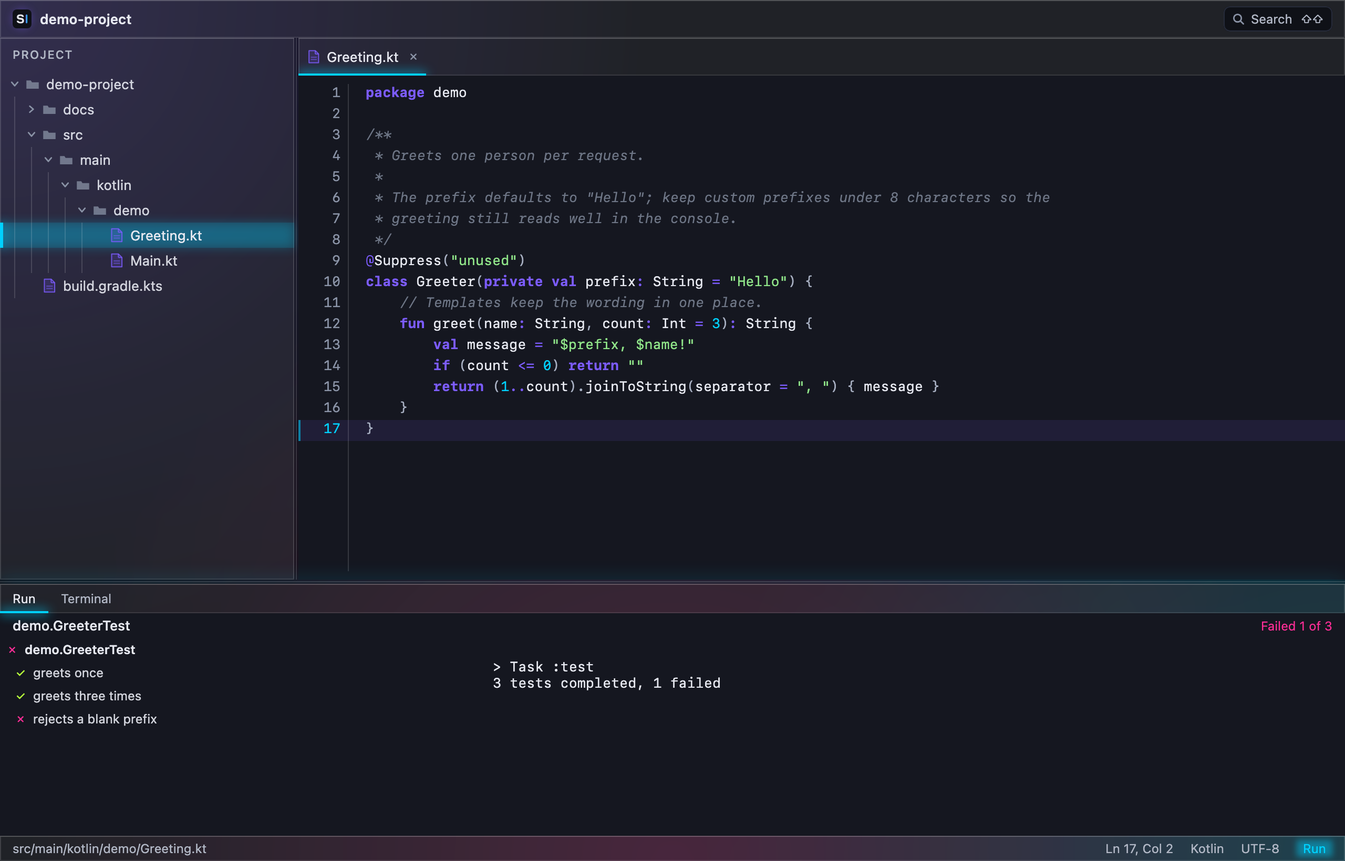
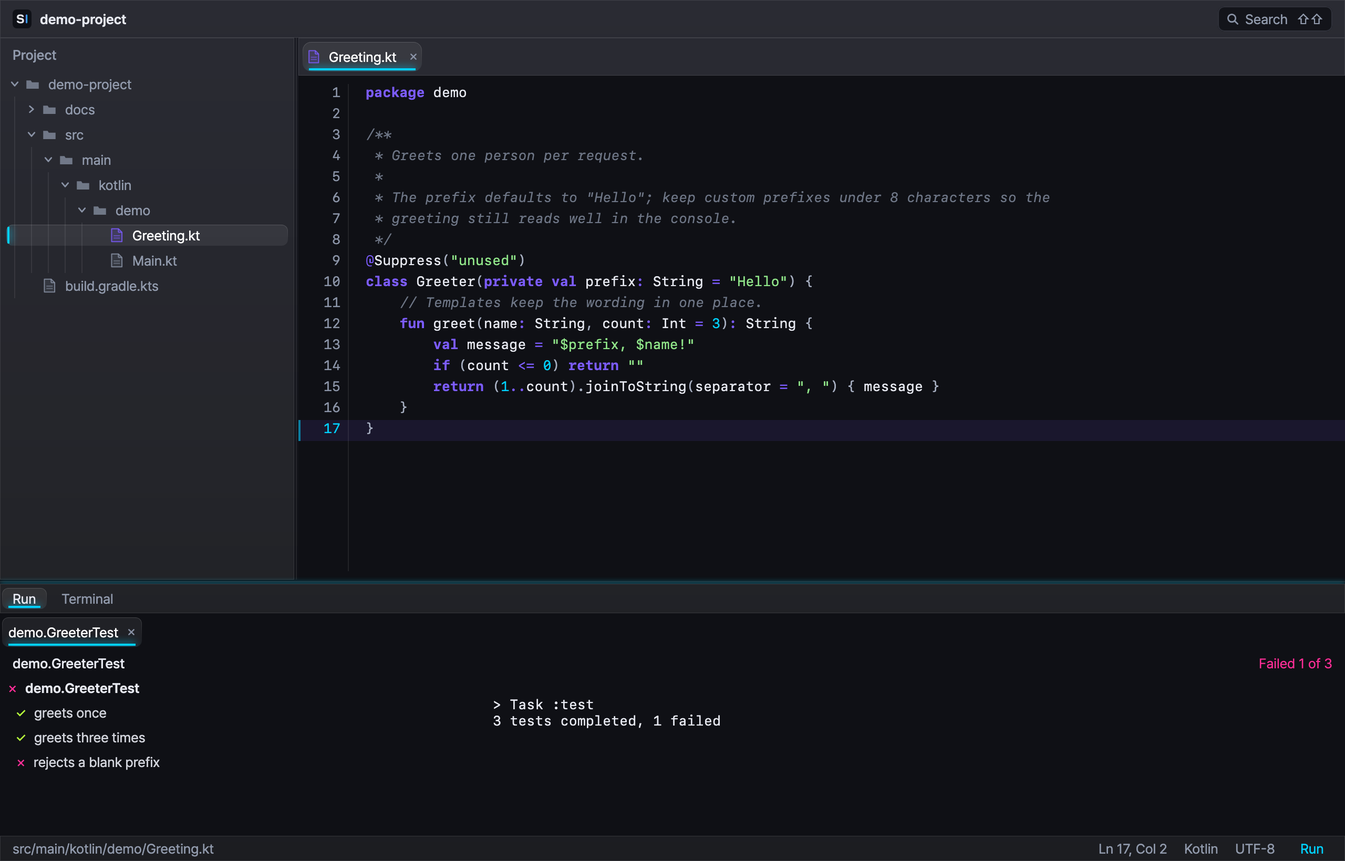
docs: #5 README 와 예시 그림 갱신
- README.md·README.en.md: Search Everywhere 탭과 클래스·심볼·액션 검색, 에디터 편집·탐색 액션, main 실행과 실행 구성, 리퀴드 글래스 UI 반영
- 키보드 단축키 표를 파일·검색·편집·찾기·탐색·Run·터미널로 묶어 Keymap.kt 와 맞춤
- 동작 방식에 선언 인덱스와 Search Everywhere 기여자 구성 추가
- docs/images 예시 그림 다섯 장을 UiSnapshotTest 산출물로 갱신

diff --git a/README.md b/README.md
@@ -13,7 +13,7 @@
 <p align="center"><img src="docs/images/editor.png" alt="프로젝트 트리와 Kotlin 파일을 연 strIDE 창" width="720"></p>
 
 <p align="center">
-  프로젝트 트리 &nbsp;·&nbsp; 탭 에디터 &nbsp;·&nbsp; Kotlin·JSON 문법 하이라이트 &nbsp;·&nbsp; 찾기와 바꾸기 &nbsp;·&nbsp; 네온·글래스 UI<br>
+  프로젝트 트리 &nbsp;·&nbsp; 탭 에디터 &nbsp;·&nbsp; Kotlin·JSON 문법 하이라이트 &nbsp;·&nbsp; 찾기와 바꾸기 &nbsp;·&nbsp; 리퀴드 글래스 UI<br>
   Kotlin 과 Compose Desktop 으로 만든 Apple Silicon 전용 앱입니다.
 </p>
 
@@ -40,10 +40,12 @@ brew install --cask lcalmsky/stride/stride
 <td width="44%" valign="top"><img src="docs/images/editor.png" alt="프로젝트 트리와 Kotlin 에디터" width="480"></td>
 <td valign="top">
 
-- **프로젝트 트리** 폴더는 한 번 클릭에 펼치고 파일은 한 번 클릭에 엽니다. `.git`, `build`, `.gradle`, `node_modules`, `.kotlin`, `.idea` 는 숨깁니다. 경계를 끌어 너비를 200–480 dp 사이에서 바꿉니다
-- **탭 에디터** 연 파일이 탭으로 열리고, 같은 파일을 다시 열면 그 탭을 고릅니다. 탭은 `⌘W` 로 닫고 `⌘⇧]`·`⌃→` 와 `⌘⇧[`·`⌃←` 로 오갑니다
+- **프로젝트 트리** 폴더는 한 번 클릭에 펼치고 파일은 한 번 클릭에 엽니다. `.git`, `build`, `.gradle`, `node_modules`, `.kotlin`, `.idea` 는 숨깁니다. 경계를 끌어 너비를 200–480 dp 사이에서 바꾸고, `⌘1` 로 트리를 여닫고 `⌥F1` 로 현재 파일을 트리에서 드러냅니다
+- **탭 에디터** 연 파일이 탭으로 열리고, 같은 파일을 다시 열면 그 탭을 고릅니다. 탭은 `⌘W` 로 닫고 `⌘⇧]`·`⌃→` 와 `⌘⇧[`·`⌃←` 로 오갑니다. 닫은 탭과 나머지 탭은 Actions 탭의 `Reopen Closed Tab`·`Close Other Tabs` 로 다룹니다
 - **문법 하이라이트** Kotlin 플러그인과 JSON 플러그인이 각각 렉서와 하이라이터를 제공합니다. 2 MB 를 넘는 파일은 하이라이트 없이 읽기 전용으로 엽니다
-- **편집** 줄 복제·삭제·이동, 줄·블록 주석 토글, 들여쓰기, 실행 취소·다시 실행을 키보드로 합니다. `⌘L` 로 `줄` 이나 `줄:열` 로 이동합니다
+- **편집** 줄 복제·삭제·이동, 줄·블록 주석 토글, 들여쓰기, 실행 취소·다시 실행을 키보드로 합니다. `⌘L` 로 `줄` 이나 `줄:열` 로 이동합니다. 선택 없이 `⌘C`·`⌘X` 를 누르면 줄 전체를 복사·잘라냅니다
+- **편집 도우미** `⌥↑`·`⌥↓` 는 커서에서 단어·문자열·괄호·줄 순으로 선택을 넓히고 좁힙니다. `⌘⇧U` 대소문자, `⌃⇧J` 줄 합치기, `⇧↩`·`⌘⌥↩` 새 줄, `⌃M` 짝 괄호, `⌘⌥[`·`⌘⌥]` 코드 블록, `⌃⇧↑`·`⌃⇧↓` 메서드 이동을 키보드로 합니다. `⌥/` 는 열린 편집기의 단어로, `⌃Space`·`⌃⌥Space` 는 선언 인덱스와 키워드로 자동 완성하고, `⇧F6` 은 파일 안에서 이름을 바꿉니다
+- **탐색** `⌘B` 나 `⌘`-클릭으로 선언으로 가고, `⌘[`·`⌘]` 또는 `⌘⌥←`·`⌘⌥→` 로 뒤로·앞으로 갑니다. `⌘F12` 파일 구조, `⌘⇧T` 테스트로 이동, `⌥F7` 사용처 찾기, `F3`·`⌘F3` 북마크를 씁니다
 - **상태 바** 상대 경로, `Ln`·`Col`, 파일 종류, `UTF-8`, 읽기 전용 표시를 보여 줍니다
 
 </td>
@@ -57,9 +59,11 @@ brew install --cask lcalmsky/stride/stride
 <td width="44%" valign="top"><img src="docs/images/search.png" alt="Search Everywhere 결과" width="480"></td>
 <td valign="top">
 
-- **Search Everywhere** `Shift` 를 두 번 누르면 열립니다. 파일 이름과 상대 경로를 퍼지 매칭으로 찾아 점수 순으로 보여 주고, `↑`·`↓` 로 옮기고 `Enter` 로 엽니다
-- **파일로 이동** `⌘⇧O` 는 같은 결과 창을 엽니다
-- **프로젝트 텍스트 검색** `⌘⇧F` 는 프로젝트의 파일에서 글자를 찾습니다. 2 MB 가 넘는 파일과 바이너리 파일은 건너뛰고 최대 200건을 보여 줍니다. 결과는 `경로:줄` 과 줄 내용으로 나오고 일치한 글자는 강조됩니다. `Enter` 로 파일을 열고 그 위치를 선택합니다
+- **Search Everywhere** `Shift` 를 두 번 누르면 All 탭으로 열립니다. 파일·클래스·심볼·액션 결과를 묶어 보여 주고(`Files`·`Classes` 같은 그룹, 기여자별 4개·전체 50개까지), `Tab`·`⇧Tab` 으로 All·Classes·Files·Symbols·Actions 탭을 오갑니다. `↑`·`↓` 로 옮기고 `Enter` 로 엽니다
+- **클래스·심볼** `⌘O` 는 클래스, `⌘⌥O` 는 심볼 검색을 엽니다. 백그라운드 선언 인덱스가 Kotlin·Java 의 클래스·함수·프로퍼티를 훑어 클래스는 `경로:줄`, 심볼은 `컨테이너 — 경로:줄` 을 보여 주고 `Enter` 로 그 줄을 엽니다
+- **파일로 이동** `⌘⇧O` 는 파일 이름과 상대 경로를 퍼지 매칭해 점수 순으로 보여 줍니다
+- **액션** `⌘⇧A` 는 모든 액션을 이름과 단축키로 보여 주고 `Enter` 로 실행합니다
+- **프로젝트 텍스트 검색** `⌘⇧F` 는 프로젝트의 파일에서 글자를 찾습니다. 2 MB 가 넘는 파일과 바이너리 파일은 건너뛰고 최대 200건을 보여 줍니다. `W` 는 단어 단위 일치를 켭니다. 결과는 `경로:줄` 과 줄 내용으로 나오고 일치한 글자는 강조됩니다. `Enter` 로 파일을 열고 그 위치를 선택합니다
 - **최근 파일** `⌘E` 는 최근에 연 파일을 최신 순으로 최대 50개 보여 줍니다. 닫은 파일도 목록에 남습니다
 
 </td>
@@ -89,9 +93,10 @@ brew install --cask lcalmsky/stride/stride
 <td width="44%" valign="top"><img src="docs/images/run.png" alt="테스트 트리와 콘솔이 있는 Run 창" width="480"></td>
 <td valign="top">
 
-- **테스트 실행** `src/test` 아래 `.kt` 파일의 클래스 줄과 `@Test` 함수마다 거터에 `▶` 가 붙습니다. 눌러서 그 테스트를 실행합니다. `⌃⇧R` 은 커서 위치의 테스트를, `⌃R` 은 마지막 실행이나 커서 위치의 테스트를 실행합니다
-- **테스트 트리와 콘솔** Run 창은 머리글 상태 아래를 테스트 트리와 콘솔로 나눕니다. 통과·실패·건너뜀 수를 세고, 메서드를 고르면 메시지와 스택, 그 테스트의 출력을 보여 줍니다
-- **중지와 다시 실행** `⌘F2` 로 실행을 중지하고 `⌘R` 로 Run 창에서 다시 실행합니다. `⌘4` 로 Run 창을 엽니다
+- **테스트 실행** `src/test` 아래 `.kt` 파일의 클래스 줄과 `@Test` 함수마다 거터에 `▶` 가 붙습니다. 눌러서 그 테스트를 실행합니다. `⌃⇧R` 은 커서 위치의 테스트를, 없으면 파일의 main 이나 스크립트를 실행합니다
+- **main 실행** Kotlin·Java 의 `main` 함수 줄에도 거터 `▶` 가 붙습니다. `⌃R` 은 마지막 실행이 있으면 다시 실행하고, 없으면 `⌃⇧R` 과 같은 대상을 실행합니다. `.py`·`.sh`·`.js`·`.rb`·`.kts` 스크립트와 Gradle 밖 단일 Java 파일은 직접 실행하고, Gradle 소스셋의 Kotlin·Java 는 `strideRunMain` 작업으로 실행합니다
+- **컨텍스트 액션과 실행 구성** `⌥↩` 는 커서 위치에서 실행할 main·테스트와 다시 실행·중지를 팝업으로 보여 줍니다. `⌃⌥R` 은 현재 파일의 실행 항목과 최근 실행 10개를 보여 주고 `Enter` 로 실행합니다. `⌘F9` 는 `classes`·`testClasses` 를 빌드합니다
+- **Run 창** 실행 세션이 둘 이상이거나 끝난 세션이 있으면 창 위에 탭이 생기고 `×` 로 닫습니다. 테스트 실행은 트리와 콘솔로 나눠 통과·실패·건너뜀 수를 세고, 메서드를 고르면 메시지와 스택, 그 테스트의 출력을 보여 줍니다. 애플리케이션 실행은 콘솔만 보여 주며 콘솔 아래 입력 줄로 표준 입력을 보냅니다. `⌘F2` 로 중지하고 `⌘R` 로 다시 실행하며 `⌘4` 로 창을 엽니다
 - **항상 실행** Gradle init script 가 `Test` 작업의 최신 검사와 빌드 캐시를 끕니다. 같은 테스트를 다시 돌려도 건너뛰지 않고 이벤트를 보고합니다
 
 </td>
@@ -113,18 +118,18 @@ brew install --cask lcalmsky/stride/stride
 </tr>
 </table>
 
-### 네온·글래스 UI
+### 리퀴드 글래스 UI
 
 <table width="100%">
 <tr>
-<td width="44%" valign="top"><img src="docs/images/editor.png" alt="메시 배경과 글래스 패널, 네온 선택 표시" width="480"></td>
+<td width="44%" valign="top"><img src="docs/images/editor.png" alt="프로젝트 트리와 활성 탭의 시안 선택 표시" width="480"></td>
 <td valign="top">
 
-- **메시 배경** 어두운 바탕 위에 세 개의 방사형 오브(보라·청록·분홍)를 그려 창 뒤에 깔아 둡니다
-- **글래스 패널** 프로젝트 트리, 탭 줄, 찾기 바는 메시를 잘라 흐린 반투명 패널로 그립니다. 결과 창과 줄로 이동 창은 뒤 화면을 실제로 흐리는 유리로 그립니다
-- **네온 선택 신호** 선택한 행·탭·결과는 옅은 청록 배경과 왼쪽(탭은 아래)의 `accent2` 막대, 번지는 글로우로 표시합니다. 포커스를 받은 패널은 위쪽에 얇은 네온 선을 그립니다
-- **상태 전환** 선택이 바뀔 때만 150 ms 동안 글로우가 페이드합니다. 그 밖의 상시 애니메이션은 없습니다
-- **비용** 패널 블러는 크기별로 한 번 계산해 캐시하고, 결과 창의 배경 블러는 1/4 해상도 사본에 겁니다. 에디터·터미널·콘솔은 불투명 틴트라 메시가 비치지 않습니다
+- **배경** 중립 그라파이트 바탕에 위에서 아래로 은은히 어두워지는 휘도 폴오프를 깔아 창 뒤에 둡니다. 색은 강조 요소에만 씁니다
+- **리퀴드 글래스** 프로젝트 트리·탭 줄·찾기 바·상태 바·도구 창은 흐린 프로스트 슬래브로, 팝업은 뒤 화면을 흐리고 가장자리를 굴절시키는 유리로 그립니다. 유리에는 가장자리 렌즈, 스페큘러 림, 중립 그림자가 있고, 셰이더를 쓸 수 없으면 블러와 헤어라인으로 대체합니다
+- **선택 신호** 선택한 행·탭·결과는 캡슐 리프트와 위쪽 스페큘러 림, 왼쪽(탭은 아래)의 2 dp 시안 막대, 번지는 글로우, 흰 텍스트로 표시합니다. 포커스를 받은 패널은 테두리에 얇은 선을 그립니다
+- **모션과 비용** 선택이 바뀔 때만 150 ms 동안 페이드하고 상시 애니메이션은 없습니다. 패널 블러는 크기별로 한 번 계산해 캐시하고, 팝업 렌즈는 1/4 해상도 사본에서 계산합니다. 에디터·터미널·콘솔은 불투명 틴트라 배경이 비치지 않습니다
+- **UI 글꼴** 번들된 UI 글꼴을 쓰고, Actions 탭의 `Switch UI Font` 로 시스템 글꼴과 전환합니다. 선택은 저장되어 다음 실행에도 유지됩니다
 
 </td>
 </tr>
@@ -136,21 +141,25 @@ brew install --cask lcalmsky/stride/stride
 
 ### 키보드
 
-아래는 기본 키입니다. 단축키는 IntelliJ IDEA 의 macOS 기본 키맵과 호환됩니다. 전체 목록과 문맥별 우선순위의 정본은 `app/src/main/kotlin/stride/app/keys/Keymap.kt` 의 `bind(` 호출입니다.
+아래는 기본 키입니다. 단축키는 IntelliJ IDEA 의 macOS 기본 키맵과 호환됩니다. macOS 가 아닌 플랫폼에서는 같은 조합을 `Ctrl`·`Shift` 라벨로 보여 줍니다. 전체 목록과 문맥별 우선순위의 정본은 `app/src/main/kotlin/stride/app/keys/Keymap.kt` 의 `bind(` 호출입니다.
 
 | 키 | 동작 |
 |---|---|
-| `⌘O` | 폴더 열기 |
+| **파일과 탭** | |
 | `⌘S` | 저장 |
 | `⌘W` | 탭 닫기 |
 | `⌘⇧]` `⌃→` / `⌘⇧[` `⌃←` | 다음 탭 / 이전 탭 |
-| `⇧⇧` | Search Everywhere |
-| `⌘⇧O` | 파일로 이동 |
+| `⌘1` / `⌘⇧F12` | 프로젝트 트리 여닫기 / 모든 도구 창 숨기기·복원 |
+| Actions 탭 | Reopen Closed Tab · Close Other Tabs |
+| **검색과 이동** | |
+| `⇧⇧` | Search Everywhere (All 탭) |
+| `⌘O` | 클래스로 이동. 프로젝트가 없으면 폴더 열기 |
+| `⌘⇧O` / `⌘⌥O` | 파일 / 심볼로 이동 |
+| `⌘⇧A` | 액션으로 이동 |
 | `⌘⇧F` | 프로젝트 텍스트 검색 |
-| `⌘E` | 최근 파일 |
-| `⌘F` | 찾기 바 열기 |
-| `⌘R` | 바꾸기 줄 펼치기 |
-| `⌘G` / `⌘⇧G` | 다음 일치 / 이전 일치 |
+| `⌘E` / `⌃Tab` `⌃⇧Tab` | 최근 파일 / 최근 파일 전환기 |
+| `⌥F1` / `⌘⇧C` / `⌘⌥⇧C` | 트리에서 현재 파일 드러내기 / 경로 복사 / 참조 복사 |
+| **에디터 편집** | |
 | `⌘D` | 줄 또는 선택 복제 |
 | `⌘⌫` | 줄 삭제 |
 | `⌥⇧↑` / `⌥⇧↓` | 줄 위로 이동 / 아래로 이동 |
@@ -158,10 +167,41 @@ brew install --cask lcalmsky/stride/stride
 | `Tab` / `⇧Tab` | 들여쓰기 / 내어쓰기 |
 | `⌘L` | 줄로 이동 |
 | `⌘Z` / `⌘⇧Z` | 실행 취소 / 다시 실행 |
-| `⌃R` | 마지막 실행, 없으면 커서 위치의 테스트 실행 |
-| `⌃⇧R` | 커서 위치의 테스트 실행 |
+| `⌥↑` / `⌥↓` | 선택 넓히기 / 좁히기 |
+| `⌘⇧U` | 대소문자 바꾸기 |
+| `⌃⇧J` | 줄 합치기 |
+| `⇧↩` / `⌘⌥↩` | 아래 / 위에 새 줄 |
+| `⌃M` | 짝 괄호로 이동 |
+| `⌘⌥[` / `⌘⌥]` | 코드 블록 시작 / 끝으로 이동 |
+| `⌃⇧↑` / `⌃⇧↓` | 위 / 아래 메서드로 이동 |
+| `⌥/` | 단어 자동 완성 |
+| `⌃Space` · `⌃⌥Space` | 자동 완성 팝업 |
+| `⇧F6` | 파일 안에서 이름 바꾸기 |
+| `⌘C` / `⌘X` | 선택 없이 줄 복사 / 잘라내기 |
+| **찾기** | |
+| `⌘F` | 찾기 바 열기 |
+| `⌘R` | 바꾸기 줄 펼치기 |
+| `⌘G` / `⌘⇧G` | 다음 일치 / 이전 일치 |
+| **탐색** | |
+| `⌘B` · `⌘`-클릭 | 선언으로 이동 |
+| `⌘[` `⌘⌥←` / `⌘]` `⌘⌥→` | 뒤로 / 앞으로 |
+| `⌘F12` | 파일 구조 |
+| `⌘⇧T` | 테스트로 이동 |
+| `⌥F7` | 사용처 찾기 |
+| `F3` / `⌘F3` | 북마크 토글 / 북마크 목록 |
+| **Run** | |
+| `⌥↩` | 컨텍스트 액션 |
+| `⌃⇧R` | 커서 위치의 테스트, 없으면 파일의 main 실행 |
+| `⌃R` | 마지막 실행 다시 실행, 없으면 커서 위치의 테스트나 파일의 main 실행 |
+| `⌃⌥R` | 실행 구성 선택 |
+| `⌘F9` | 빌드 |
 | `⌘F2` | 실행 중지 |
-| `⌘4` · `⌥F12` · `⇧Esc` | Run 창 · Terminal 창 · 도구 창 숨기기 |
+| `⌘4` · `⌘R` (Run 창) | Run 창 열기 · Run 창에서 다시 실행 |
+| **터미널** | |
+| `⌥F12` | Terminal 창 열기 |
+| `⇧Esc` | 도구 창 숨기기 |
+| **기타** | |
+| Actions 탭 | Switch UI Font |
 
 <br>
 
@@ -200,9 +240,9 @@ JDK 21 이 필요합니다. Gradle toolchain 이 21 을 요구합니다.
 
 ## 동작 방식
 
-앱은 여섯 모듈로 나뉩니다. `core` 는 서비스·확장점·`Disposer` 를 제공하고, `lang` 은 언어와 파일 종류·하이라이터·주석 처리 API 를 정의합니다. `search` 는 파일 이름 인덱스와 Search Everywhere 의 모델을, `app` 은 Compose Desktop UI 와 에디터·트리·Run·터미널을 담습니다. `plugins/lang-kotlin` 과 `plugins/lang-json` 이 각각 Kotlin 과 JSON 의 렉서·하이라이터·파일 종류를 등록합니다.
+앱은 여섯 모듈로 나뉩니다. `core` 는 서비스·확장점·`Disposer` 를 제공하고, `lang` 은 언어와 파일 종류·하이라이터·주석 처리 API 를 정의합니다. `search` 는 파일 이름 인덱스, Kotlin·Java 선언 인덱스, Search Everywhere 의 모델을, `app` 은 Compose Desktop UI 와 에디터·탐색·북마크·Run·터미널을 담습니다. `plugins/lang-kotlin` 과 `plugins/lang-json` 이 각각 Kotlin 과 JSON 의 렉서·하이라이터·파일 종류를 등록합니다.
 
-모든 모듈은 `META-INF/stride-plugin.xml` 디스크립터로 확장점을 선언하고 확장을 등록합니다. 앱 디스크립터가 파일 종류, 문법 하이라이터, 주석 처리, 에디터, 트리 구조, Search Everywhere 기여자 확장점을 열고, 언어 플러그인과 앱 자신이 그 확장점에 등록합니다. 자세한 계약은 [core](docs/api-core.md) · [lang](docs/api-lang.md) · [search](docs/api-search.md) · [app](docs/api-app.md) 에 있습니다.
+모든 모듈은 `META-INF/stride-plugin.xml` 디스크립터로 확장점을 선언하고 확장을 등록합니다. 앱 디스크립터가 파일 종류, 문법 하이라이터, 주석 처리, 에디터, 트리 구조, Search Everywhere 기여자 확장점을 열고, 언어 플러그인과 앱 자신이 그 확장점에 등록합니다. 클래스·심볼 검색은 선언 인덱스를 읽는 기여자로 등록되고, 액션 검색은 앱이 직접 구성합니다. 자세한 계약은 [core](docs/api-core.md) · [lang](docs/api-lang.md) · [search](docs/api-search.md) · [app](docs/api-app.md) 에 있습니다.
 
 <br>
 
@@ -214,7 +254,7 @@ JDK 21 이 필요합니다. Gradle toolchain 이 21 을 요구합니다.
 ./gradlew :app:run                # 창을 띄우므로 직접 실행합니다
 ```
 
-- 테스트는 340여 건이고 약 70초 걸립니다. `UiSnapshotTest` 가 `app/build/ui-snapshots/` 에 화면 PNG 를 씁니다
+- 테스트는 580여 건이고 약 2분 걸립니다. `UiSnapshotTest` 가 `app/build/ui-snapshots/` 에 화면 PNG 를 씁니다
 - 릴리즈는 `scripts/release.sh X.Y.Z -m "<바뀐 기능 요약>"` 하나로 합니다. `scripts/release-selftest.sh` 가 이 스크립트를 검사합니다
 - 저장소 규칙은 [CLAUDE.md](CLAUDE.md) 에 있습니다
 

diff --git a/README.en.md b/README.en.md
@@ -13,7 +13,7 @@
 <p align="center"><img src="docs/images/editor.png" alt="The strIDE window with a project tree and a Kotlin file open" width="720"></p>
 
 <p align="center">
-  Project tree &nbsp;·&nbsp; tabbed editor &nbsp;·&nbsp; Kotlin and JSON syntax highlighting &nbsp;·&nbsp; find and replace &nbsp;·&nbsp; neon and glass UI<br>
+  Project tree &nbsp;·&nbsp; tabbed editor &nbsp;·&nbsp; Kotlin and JSON syntax highlighting &nbsp;·&nbsp; find and replace &nbsp;·&nbsp; liquid glass UI<br>
   Built with Kotlin and Compose Desktop for Apple Silicon.
 </p>
 
@@ -40,10 +40,12 @@ The app installs to `/Applications/strIDE.app`. It is Apple Silicon (arm64) only
 <td width="44%" valign="top"><img src="docs/images/editor.png" alt="Project tree and Kotlin editor" width="480"></td>
 <td valign="top">
 
-- **Project tree** a directory expands on a single click and a file opens on a single click. `.git`, `build`, `.gradle`, `node_modules`, `.kotlin`, and `.idea` are hidden. Drag the splitter to set the width between 200 and 480 dp
-- **Tabbed editor** open files become tabs, and opening the same file again selects its tab. Close with `⌘W` and switch with `⌘⇧]`·`⌃→` and `⌘⇧[`·`⌃←`
+- **Project tree** a directory expands on a single click and a file opens on a single click. `.git`, `build`, `.gradle`, `node_modules`, `.kotlin`, and `.idea` are hidden. Drag the splitter to set the width between 200 and 480 dp, `⌘1` toggles the tree, and `⌥F1` reveals the current file in it
+- **Tabbed editor** open files become tabs, and opening the same file again selects its tab. Close with `⌘W` and switch with `⌘⇧]`·`⌃→` and `⌘⇧[`·`⌃←`. `Reopen Closed Tab` and `Close Other Tabs` in the Actions tab bring back a closed tab or close the rest
 - **Syntax highlighting** the Kotlin and JSON plugins each provide a lexer and a highlighter. Files larger than 2 MB open read-only without highlighting
-- **Editing** duplicate, delete, and move lines, toggle line and block comments, indent, and undo or redo from the keyboard. `⌘L` jumps to a `line` or `line:column`
+- **Editing** duplicate, delete, and move lines, toggle line and block comments, indent, and undo or redo from the keyboard. `⌘L` jumps to a `line` or `line:column`. With no selection, `⌘C`·`⌘X` copy or cut the whole line
+- **Editing helpers** `⌥↑`·`⌥↓` grow and shrink the selection from the caret through word, string contents, brackets, and lines. `⌘⇧U` changes case, `⌃⇧J` joins lines, `⇧↩`·`⌘⌥↩` start a new line, `⌃M` jumps to the matching brace, `⌘⌥[`·`⌘⌥]` move to the code block edges, and `⌃⇧↑`·`⌃⇧↓` move between methods. `⌥/` completes from words in open editors, `⌃Space`·`⌃⌥Space` complete from the declaration index and keywords, and `⇧F6` renames within the file
+- **Navigation** `⌘B` or `⌘`-click goes to a declaration, and `⌘[`·`⌘]` or `⌘⌥←`·`⌘⌥→` move back and forward. `⌘F12` shows the file structure, `⌘⇧T` goes to the test, `⌥F7` finds usages, and `F3`·`⌘F3` handle bookmarks
 - **Status bar** shows the relative path, `Ln`·`Col`, the file type, `UTF-8`, and a read-only badge
 
 </td>
@@ -57,9 +59,11 @@ The app installs to `/Applications/strIDE.app`. It is Apple Silicon (arm64) only
 <td width="44%" valign="top"><img src="docs/images/search.png" alt="Search Everywhere results" width="480"></td>
 <td valign="top">
 
-- **Search Everywhere** press `Shift` twice to open it. It matches file names and relative paths fuzzily and lists them by score; move with `↑`·`↓` and open with `Enter`
-- **Go to file** `⌘⇧O` opens the same result window
-- **Find in path** `⌘⇧F` searches the text of every project file. It skips files over 2 MB and binary files and shows up to 200 results. Each row reads `path:line` with the line body, and the matched characters are highlighted. `Enter` opens the file and selects the match
+- **Search Everywhere** press `Shift` twice to open the All tab. It groups file, class, symbol, and action results (`Files`, `Classes`, and so on, up to 4 per contributor and 50 overall); `Tab`·`⇧Tab` cycle through the All·Classes·Files·Symbols·Actions tabs. Move with `↑`·`↓` and open with `Enter`
+- **Classes and symbols** `⌘O` opens class search and `⌘⌥O` opens symbol search. A background declaration index scans Kotlin and Java classes, functions, and properties, shows `path:line` for classes and `container — path:line` for symbols, and `Enter` opens that line
+- **Go to file** `⌘⇧O` matches file names and relative paths fuzzily and lists them by score
+- **Actions** `⌘⇧A` lists every action with its name and shortcut and runs the chosen one
+- **Find in path** `⌘⇧F` searches the text of every project file. It skips files over 2 MB and binary files and shows up to 200 results. `W` turns on whole-word matching. Each row reads `path:line` with the line body, and the matched characters are highlighted. `Enter` opens the file and selects the match
 - **Recent files** `⌘E` lists the most recently opened files, newest first, up to 50. Closed files stay in the list
 
 </td>
@@ -89,9 +93,10 @@ The app installs to `/Applications/strIDE.app`. It is Apple Silicon (arm64) only
 <td width="44%" valign="top"><img src="docs/images/run.png" alt="The Run window with a test tree and console" width="480"></td>
 <td valign="top">
 
-- **Running tests** every class line and `@Test` function in a `.kt` file under `src/test` gets a `▶` in the gutter; click it to run that test. `⌃⇧R` runs the test at the caret, and `⌃R` reruns the last run or runs the test at the caret
-- **Test tree and console** below the header status, the Run window splits into the test tree and the console. It counts passed, failed, and skipped tests, and selecting a method shows its message, stack, and captured output
-- **Stop and rerun** `⌘F2` stops the run and `⌘R` reruns it from the Run window. `⌘4` opens the Run window
+- **Running tests** every class line and `@Test` function in a `.kt` file under `src/test` gets a `▶` in the gutter; click it to run that test. `⌃⇧R` runs the test at the caret, or the file's main or script when there is none
+- **Running main** the `main` function in Kotlin and Java also gets a `▶` in the gutter. `⌃R` reruns the last run, otherwise it runs the same target as `⌃⇧R`. `.py`·`.sh`·`.js`·`.rb`·`.kts` scripts and a single-file Java source outside Gradle run directly; Kotlin and Java in a Gradle source set run through the `strideRunMain` task
+- **Context actions and run configurations** `⌥↩` opens a popup with the main and test runs available at the caret plus rerun and stop. `⌃⌥R` lists the current file's run entries and the 10 most recent runs, and `Enter` runs the selection. `⌘F9` builds `classes` and `testClasses`
+- **Run window** when more than one session exists, or a session has finished, the window shows a tab per session with `×`. Test runs split into the test tree and console, count passed, failed, and skipped tests, and selecting a method shows its message, stack, and captured output. Application runs show the console only, with an input line at the bottom for standard input. `⌘F2` stops, `⌘R` reruns from the window, and `⌘4` opens it
 - **Always runs** the Gradle init script disables up-to-date checks and the build cache for every `Test` task, so running the same test again still executes it and reports its events
 
 </td>
@@ -113,18 +118,18 @@ The app installs to `/Applications/strIDE.app`. It is Apple Silicon (arm64) only
 </tr>
 </table>
 
-### Neon and glass UI
+### Liquid glass UI
 
 <table width="100%">
 <tr>
-<td width="44%" valign="top"><img src="docs/images/editor.png" alt="Mesh background, glass panels, and a neon selection" width="480"></td>
+<td width="44%" valign="top"><img src="docs/images/editor.png" alt="Cyan selection on the project tree and the active tab" width="480"></td>
 <td valign="top">
 
-- **Mesh background** three radial orbs (violet, cyan, and pink) are drawn over the dark base and sit behind the window content
-- **Glass panels** the project tree, tab strip, and find bar are translucent panels cut from a blurred slice of the mesh. Result popups and the go-to-line popup use glass that blurs the content actually drawn beneath them
-- **Neon selection signal** a selected row, tab, or result gets a faint cyan background, an `accent2` bar on the left (bottom for tabs), and a bleeding glow. A focused panel draws a thin neon line along its top edge
-- **Transitions** a glow fades for 150 ms only when the selection changes. Nothing else animates continuously
-- **Cost** panel blur is computed once per size and cached, and the popup backdrop blur runs on a quarter-resolution copy. The editor, terminal, and console use an opaque tint, so the mesh does not show through them
+- **Background** a neutral graphite base with a soft top-to-bottom luminance falloff sits behind the window content. Color is reserved for emphasis
+- **Liquid glass** the project tree, tab strip, find bar, status bar, and tool windows are frosted slabs; popups are glass that blurs the content behind them and refracts at the edges. Each pane has an edge lens, a specular rim, and a neutral shadow, and falls back to blur plus hairlines when the shader is unavailable
+- **Selection signal** a selected row, tab, or result gets a capsule lift, a specular top rim, a 2 dp cyan bar on the left (bottom for tabs), a bleeding glow, and white text. A focused panel draws a thin line around its border
+- **Motion and cost** a fade runs for 150 ms only when the selection changes; nothing animates continuously. Panel blur is computed once per size and cached, and the popup lens runs on a quarter-resolution copy. The editor, terminal, and console use an opaque tint, so the background does not show through them
+- **UI font** the bundled UI font can be swapped for the system font with `Switch UI Font` in the Actions tab. The choice is saved for the next launch
 
 </td>
 </tr>
@@ -136,21 +141,25 @@ The app installs to `/Applications/strIDE.app`. It is Apple Silicon (arm64) only
 
 ### Keyboard
 
-These are the default keys. Shortcuts are compatible with the IntelliJ IDEA macOS default keymap. The full list and the context precedence are defined by the `bind(` calls in `app/src/main/kotlin/stride/app/keys/Keymap.kt`.
+These are the default keys. Shortcuts are compatible with the IntelliJ IDEA macOS default keymap; on non-macOS platforms the same strokes are labelled with `Ctrl` and `Shift`. The full list and the context precedence are defined by the `bind(` calls in `app/src/main/kotlin/stride/app/keys/Keymap.kt`.
 
 | Key | Action |
 |---|---|
-| `⌘O` | Open folder |
+| **File and tabs** | |
 | `⌘S` | Save |
 | `⌘W` | Close tab |
 | `⌘⇧]` `⌃→` / `⌘⇧[` `⌃←` | Next tab / previous tab |
-| `⇧⇧` | Search Everywhere |
-| `⌘⇧O` | Go to file |
+| `⌘1` / `⌘⇧F12` | Toggle the project tree / hide and restore all tool windows |
+| Actions tab | Reopen Closed Tab · Close Other Tabs |
+| **Search and navigation** | |
+| `⇧⇧` | Search Everywhere (All tab) |
+| `⌘O` | Go to class. Opens the folder chooser when there is no project |
+| `⌘⇧O` / `⌘⌥O` | Go to file / symbol |
+| `⌘⇧A` | Go to action |
 | `⌘⇧F` | Find in path |
-| `⌘E` | Recent files |
-| `⌘F` | Open the find bar |
-| `⌘R` | Expand the replace row |
-| `⌘G` / `⌘⇧G` | Next match / previous match |
+| `⌘E` / `⌃Tab` `⌃⇧Tab` | Recent files / recent-file switcher |
+| `⌥F1` / `⌘⇧C` / `⌘⌥⇧C` | Reveal the current file in the tree / copy path / copy reference |
+| **Editor** | |
 | `⌘D` | Duplicate the line or selection |
 | `⌘⌫` | Delete the line |
 | `⌥⇧↑` / `⌥⇧↓` | Move the line up / down |
@@ -158,10 +167,41 @@ These are the default keys. Shortcuts are compatible with the IntelliJ IDEA macO
 | `Tab` / `⇧Tab` | Indent / unindent |
 | `⌘L` | Go to line |
 | `⌘Z` / `⌘⇧Z` | Undo / redo |
-| `⌃R` | Rerun the last run, otherwise run the test at the caret |
-| `⌃⇧R` | Run the test at the caret |
+| `⌥↑` / `⌥↓` | Grow / shrink the selection |
+| `⌘⇧U` | Toggle case |
+| `⌃⇧J` | Join lines |
+| `⇧↩` / `⌘⌥↩` | Start a new line below / above |
+| `⌃M` | Go to the matching brace |
+| `⌘⌥[` / `⌘⌥]` | Go to the code block start / end |
+| `⌃⇧↑` / `⌃⇧↓` | Move to the previous / next method |
+| `⌥/` | Word completion |
+| `⌃Space` · `⌃⌥Space` | Completion popup |
+| `⇧F6` | Rename in the file |
+| `⌘C` / `⌘X` | Copy / cut the whole line when there is no selection |
+| **Find** | |
+| `⌘F` | Open the find bar |
+| `⌘R` | Expand the replace row |
+| `⌘G` / `⌘⇧G` | Next match / previous match |
+| **Navigation** | |
+| `⌘B` · `⌘`-click | Go to declaration |
+| `⌘[` `⌘⌥←` / `⌘]` `⌘⌥→` | Back / forward |
+| `⌘F12` | File structure |
+| `⌘⇧T` | Go to test |
+| `⌥F7` | Find usages |
+| `F3` / `⌘F3` | Toggle bookmark / show bookmarks |
+| **Run** | |
+| `⌥↩` | Context actions |
+| `⌃⇧R` | Run the test at the caret, otherwise the file's main |
+| `⌃R` | Rerun the last run, otherwise the test at the caret or the file's main |
+| `⌃⌥R` | Choose a run configuration |
+| `⌘F9` | Build |
 | `⌘F2` | Stop the run |
-| `⌘4` · `⌥F12` · `⇧Esc` | Run window · Terminal window · hide the tool window |
+| `⌘4` · `⌘R` (Run window) | Open the Run window · rerun from the Run window |
+| **Terminal** | |
+| `⌥F12` | Open the Terminal window |
+| `⇧Esc` | Hide the tool window |
+| **Other** | |
+| Actions tab | Switch UI Font |
 
 <br>
 
@@ -200,9 +240,9 @@ JDK 21 is required; the Gradle toolchain asks for 21.
 
 ## How it works
 
-The app is split into six modules. `core` provides services, extension points, and `Disposer`; `lang` defines the language, file type, highlighter, and commenter APIs. `search` holds the file name index and the Search Everywhere model, and `app` contains the Compose Desktop UI with the editor, tree, Run window, and terminal. `plugins/lang-kotlin` and `plugins/lang-json` register the Kotlin and JSON lexers, highlighters, and file types.
+The app is split into six modules. `core` provides services, extension points, and `Disposer`; `lang` defines the language, file type, highlighter, and commenter APIs. `search` holds the file name index, the Kotlin and Java declaration index, and the Search Everywhere model, and `app` contains the Compose Desktop UI with the editor, navigation, bookmarks, Run window, and terminal. `plugins/lang-kotlin` and `plugins/lang-json` register the Kotlin and JSON lexers, highlighters, and file types.
 
-Every module declares extension points and registers extensions through a `META-INF/stride-plugin.xml` descriptor. The app descriptor opens the file type, syntax highlighter, commenter, editor, tree structure, and Search Everywhere contributor extension points, and the language plugins and the app itself register into them. The full contracts are in [core](docs/api-core.md) · [lang](docs/api-lang.md) · [search](docs/api-search.md) · [app](docs/api-app.md).
+Every module declares extension points and registers extensions through a `META-INF/stride-plugin.xml` descriptor. The app descriptor opens the file type, syntax highlighter, commenter, editor, tree structure, and Search Everywhere contributor extension points, and the language plugins and the app itself register into them. Class and symbol search register as contributors over the declaration index, and the app assembles action search directly. The full contracts are in [core](docs/api-core.md) · [lang](docs/api-lang.md) · [search](docs/api-search.md) · [app](docs/api-app.md).
 
 <br>
 
@@ -214,7 +254,7 @@ Every module declares extension points and registers extensions through a `META-
 ./gradlew :app:run                # opens a window, so run it yourself
 ```
 
-- The tests number about 340 and take roughly 70 seconds. `UiSnapshotTest` writes screen PNGs to `app/build/ui-snapshots/`
+- The tests number about 580 and take roughly two minutes. `UiSnapshotTest` writes screen PNGs to `app/build/ui-snapshots/`
 - Release with `scripts/release.sh X.Y.Z -m "<summary of changed features>"`. `scripts/release-selftest.sh` checks that script
 - Repository rules are in [CLAUDE.md](CLAUDE.md)
 
